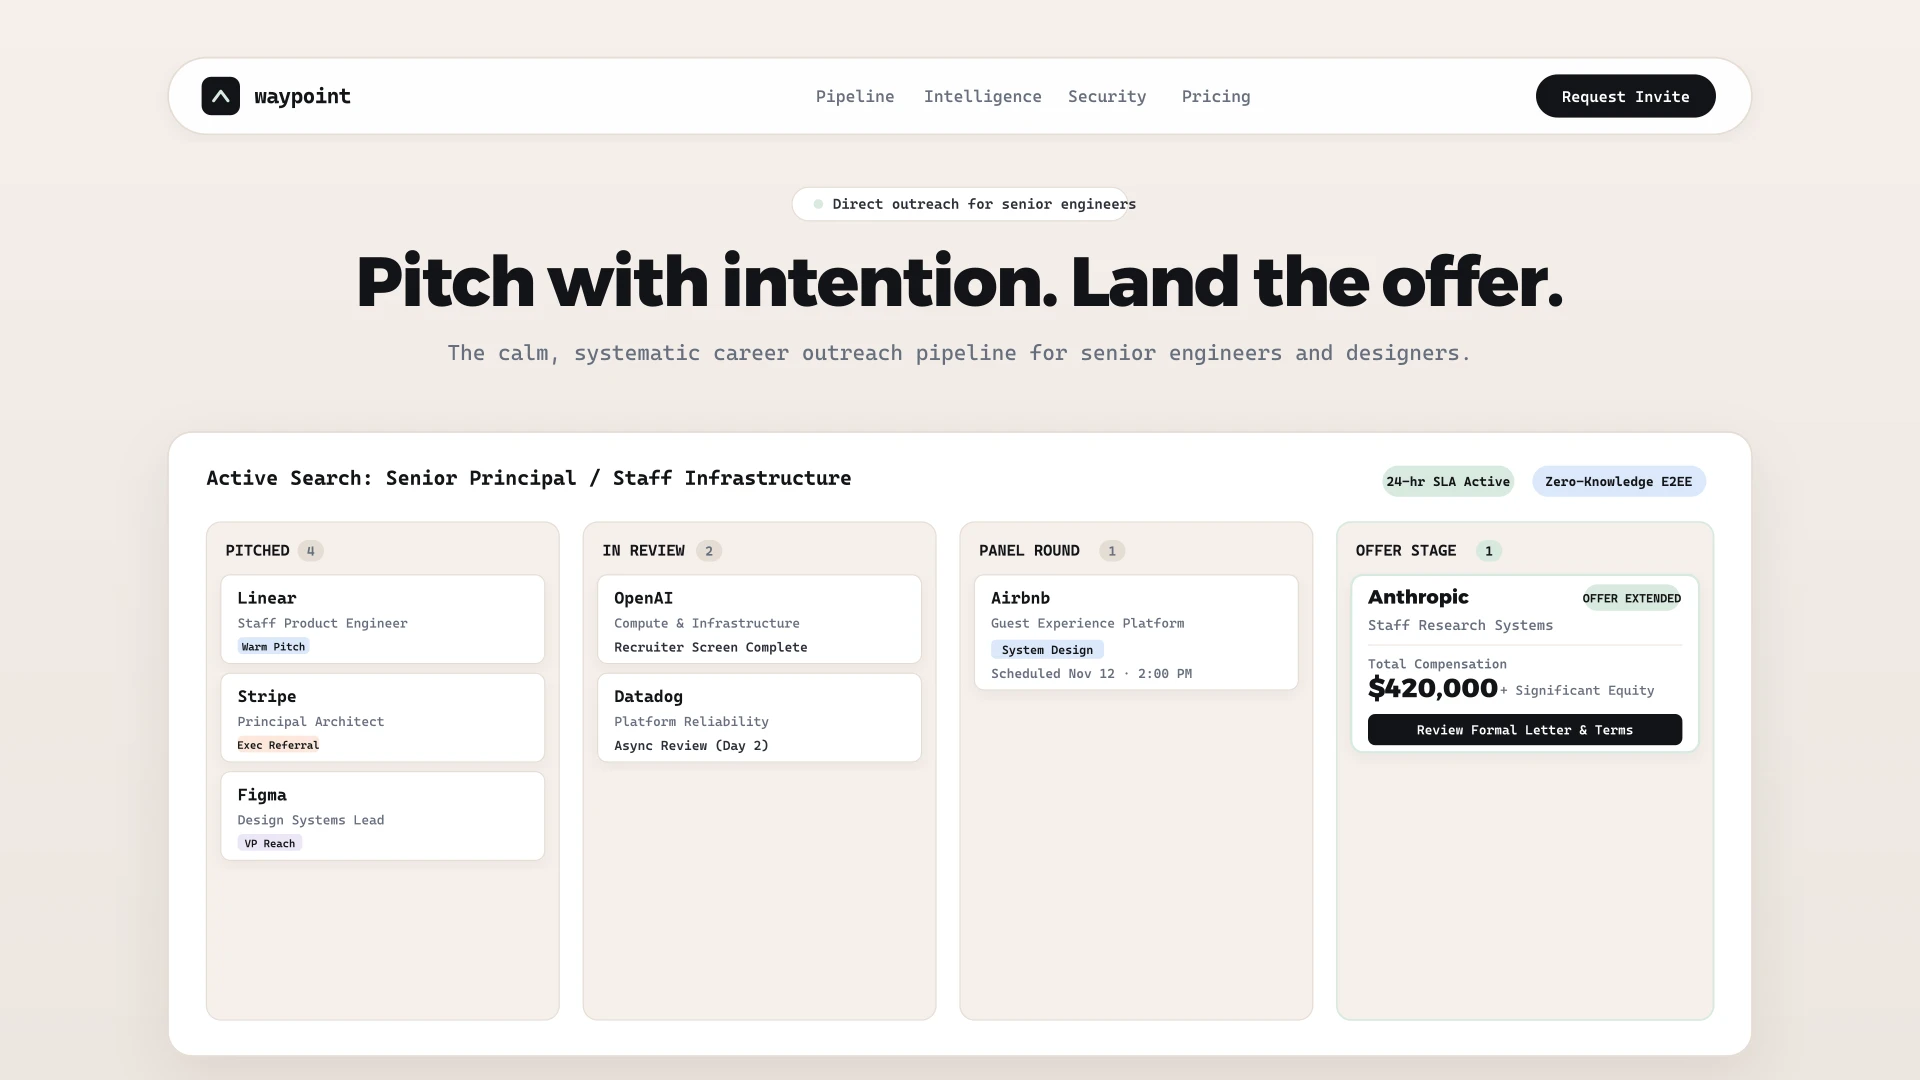
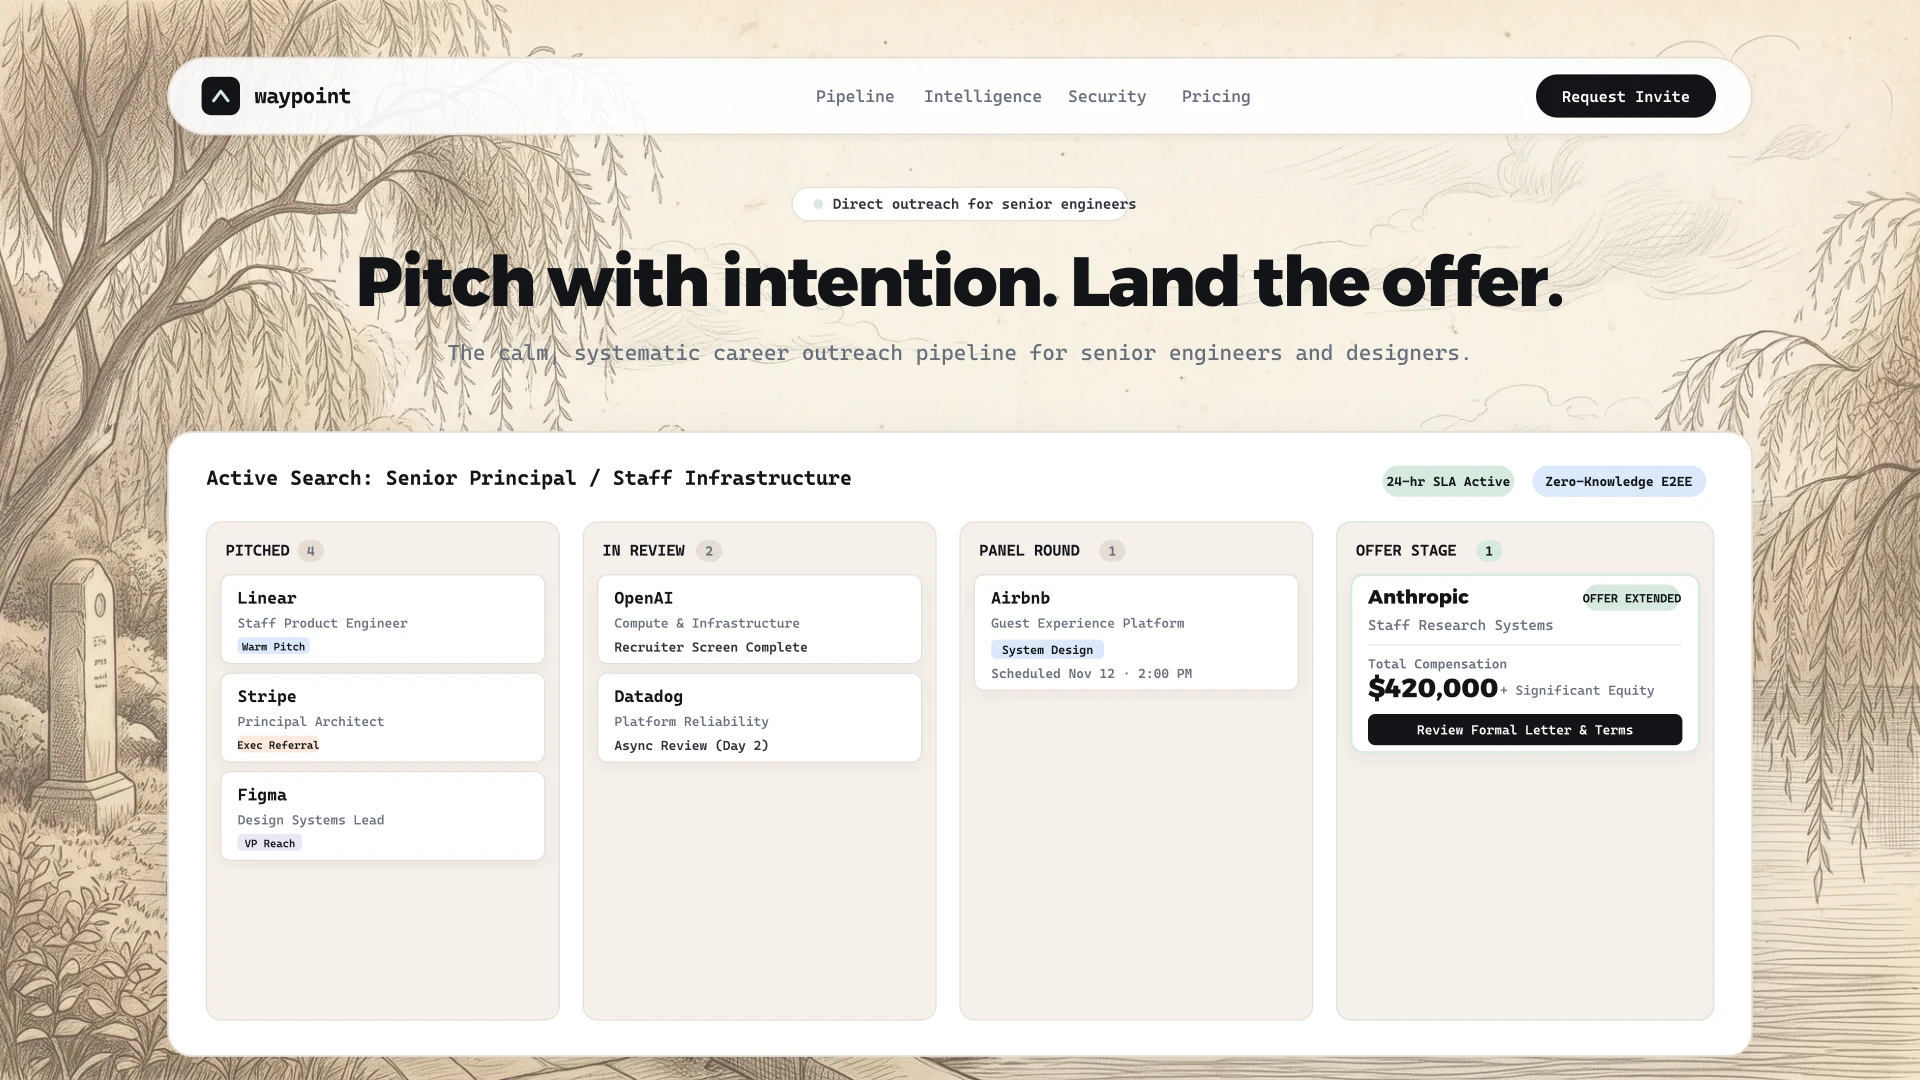
feat(waypoint): apply 16:9 hand-drawn scenery illustration to hero background

diff --git a/scripts/generate-waypoint-images.ts b/scripts/generate-waypoint-images.ts
@@ -19,8 +19,8 @@ function createSvg(width: number, height: number): string {
     </filter>
   </defs>
 
-  <!-- Background -->
-  <rect width="${width}" height="${height}" fill="url(#canvasGrad)" />
+  <!-- Background Fallback -->
+  <rect width="${width}" height="${height}" fill="url(#canvasGrad)" fill-opacity="0.35" />
 
   <g transform="scale(${scale})">
     <!-- Header Bar -->
@@ -198,17 +198,34 @@ function createSvg(width: number, height: number): string {
 }
 
 async function run() {
+  const heroBg = path.resolve("public/templates/waypoint/hero-bg.webp");
   const previewSvg = Buffer.from(createSvg(1600, 900));
   const gallerySvg = Buffer.from(createSvg(1920, 1080));
 
   const previewOut = path.resolve("public/templates/waypoint/preview-1600.webp");
   const galleryOut = path.resolve("public/gallery/waypoint.webp");
 
-  await sharp(previewSvg).webp({ quality: 90 }).toFile(previewOut);
-  console.log(`Generated ${previewOut}`);
+  if (fs.existsSync(heroBg)) {
+    const bg1600 = await sharp(heroBg).resize(1600, 900, { fit: "cover" }).toBuffer();
+    await sharp(bg1600)
+      .composite([{ input: previewSvg }])
+      .webp({ quality: 90 })
+      .toFile(previewOut);
+    console.log(`Generated ${previewOut} with scenery background`);
 
-  await sharp(gallerySvg).webp({ quality: 90 }).toFile(galleryOut);
-  console.log(`Generated ${galleryOut}`);
+    const bg1920 = await sharp(heroBg).resize(1920, 1080, { fit: "cover" }).toBuffer();
+    await sharp(bg1920)
+      .composite([{ input: gallerySvg }])
+      .webp({ quality: 90 })
+      .toFile(galleryOut);
+    console.log(`Generated ${galleryOut} with scenery background`);
+  } else {
+    await sharp(previewSvg).webp({ quality: 90 }).toFile(previewOut);
+    console.log(`Generated ${previewOut}`);
+
+    await sharp(gallerySvg).webp({ quality: 90 }).toFile(galleryOut);
+    console.log(`Generated ${galleryOut}`);
+  }
 }
 
 run().catch((err) => {

diff --git a/src/app/(waypoint)/waypoint/components/Hero.tsx b/src/app/(waypoint)/waypoint/components/Hero.tsx
@@ -10,15 +10,21 @@ export function Hero() {
   return (
     <section
       id="top"
-      className="relative pt-28 pb-16 md:pt-36 md:pb-24 overflow-hidden bg-gradient-to-b from-[#F5EFEB] via-[#EDE6DF] to-[#E5DDD4] text-center"
+      className="relative pt-28 pb-16 md:pt-36 md:pb-24 overflow-hidden bg-[#EDE6DF] text-center"
     >
-      {/* Subtle warm atmospheric glow */}
-      <div
-        className="absolute top-0 left-1/2 -translate-x-1/2 w-full max-w-7xl h-96 pointer-events-none opacity-60"
-        style={{
-          background: "radial-gradient(circle at 50% 20%, #FAF8F5 0%, rgba(237,230,223,0) 70%)",
-        }}
-      />
+      {/* Full-bleed 16:9 Scenery Background Image */}
+      <div className="absolute inset-0 z-0 pointer-events-none select-none overflow-hidden">
+        {/* eslint-disable-next-line @next/next/no-img-element */}
+        <img
+          src="/templates/waypoint/hero-bg-1920.webp"
+          alt="Waypoint scenic landscape illustration"
+          className="w-full h-full object-cover object-top sm:object-center opacity-85"
+        />
+        {/* Soft atmospheric gradient wash to blend into bottom canvas & guarantee text contrast */}
+        <div
+          className="absolute inset-0 bg-gradient-to-b from-[#F5EFEB]/50 via-transparent to-[#EDE6DF]"
+        />
+      </div>
 
       <div className="relative max-w-5xl mx-auto px-6 z-10">
         {/* Eyebrow Pill */}

diff --git a/public/copy/waypoint.md b/public/copy/waypoint.md
@@ -767,15 +767,21 @@ export function Hero() {
   return (
     <section
       id="top"
-      className="relative pt-28 pb-16 md:pt-36 md:pb-24 overflow-hidden bg-gradient-to-b from-[#F5EFEB] via-[#EDE6DF] to-[#E5DDD4] text-center"
+      className="relative pt-28 pb-16 md:pt-36 md:pb-24 overflow-hidden bg-[#EDE6DF] text-center"
     >
-      {/* Subtle warm atmospheric glow */}
-      <div
-        className="absolute top-0 left-1/2 -translate-x-1/2 w-full max-w-7xl h-96 pointer-events-none opacity-60"
-        style={{
-          background: "radial-gradient(circle at 50% 20%, #FAF8F5 0%, rgba(237,230,223,0) 70%)",
-        }}
-      />
+      {/* Full-bleed 16:9 Scenery Background Image */}
+      <div className="absolute inset-0 z-0 pointer-events-none select-none overflow-hidden">
+        {/* eslint-disable-next-line @next/next/no-img-element */}
+        <img
+          src="/templates/waypoint/hero-bg-1920.webp"
+          alt="Waypoint scenic landscape illustration"
+          className="w-full h-full object-cover object-top sm:object-center opacity-85"
+        />
+        {/* Soft atmospheric gradient wash to blend into bottom canvas & guarantee text contrast */}
+        <div
+          className="absolute inset-0 bg-gradient-to-b from-[#F5EFEB]/50 via-transparent to-[#EDE6DF]"
+        />
+      </div>
 
       <div className="relative max-w-5xl mx-auto px-6 z-10">
         {/* Eyebrow Pill */}
